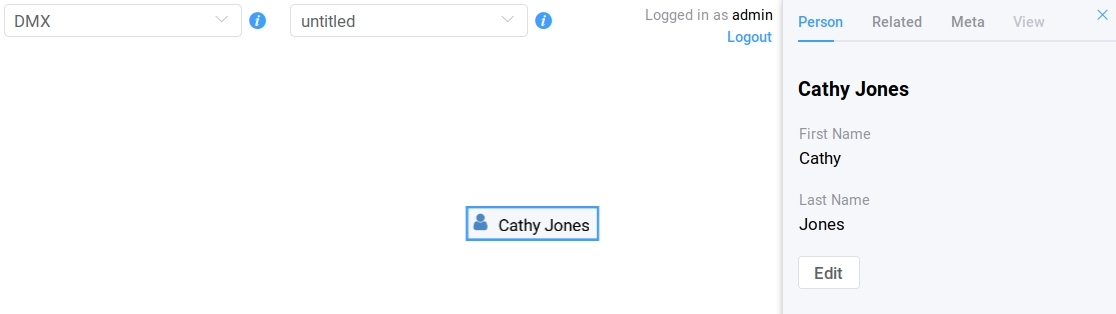
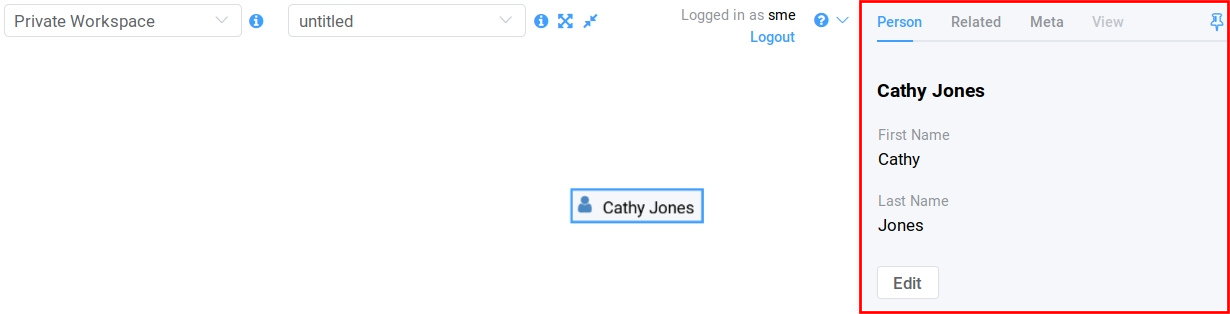
Documented pinning of detail panel as per https://git.dmx.systems/dmx-platform/dmx-platform/issues/236

diff --git a/docs/user.rst b/docs/user.rst
@@ -146,9 +146,13 @@ The detail panel offers much more features to explore and edit your data than th
 Depending on what you want to do you can choose where you want to display details - in-map or in the detail panel.
 DMX avoids to display redundant information by not opening both at the same time (*unless* you explicitly :ref:`pin<user-pinning-things>` the in-map details to your map to leave them open).
 
-The detail panel can only be opened if you have selected an item on the map and it will stay open as long as you have selected an item.
-Once you close the detail panel the selection is cleared.
-When you unselect an item the detail panel closes.
+The detail panel can only be opened if you have selected an item on the map.
+The default behavior is that it stays open as long as you have selected an item.
+Once you unselect an item by clicking somewhere onto your topicmap the detail panel closes.
+You can control whether the detail panel shall stay opened by pinning it with the little pin icon in its upper right corner.
+You close the detail panel by unpinning it with the same button.
+
+.. image:: _static/detail-panel.png
 
 Note that the detail panel can only display details of a single selected item, not when you :ref:`bulk select<user-bulk-selection>` several items.
 
